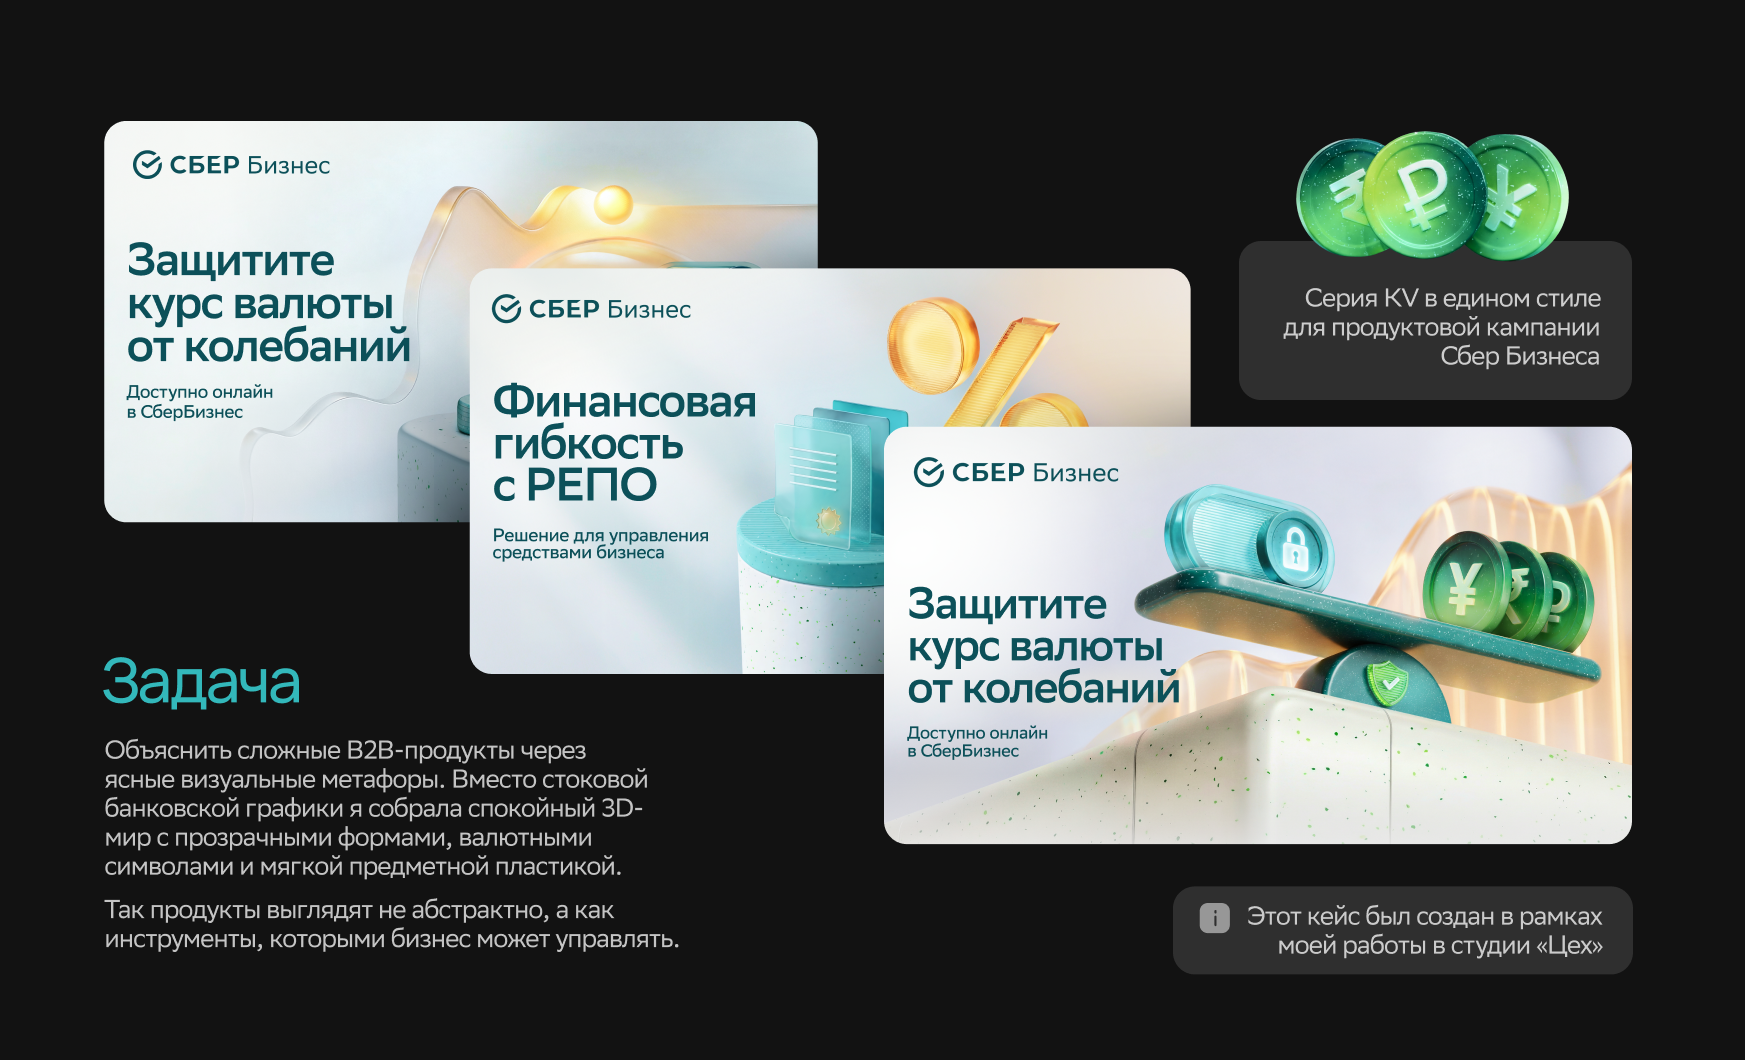
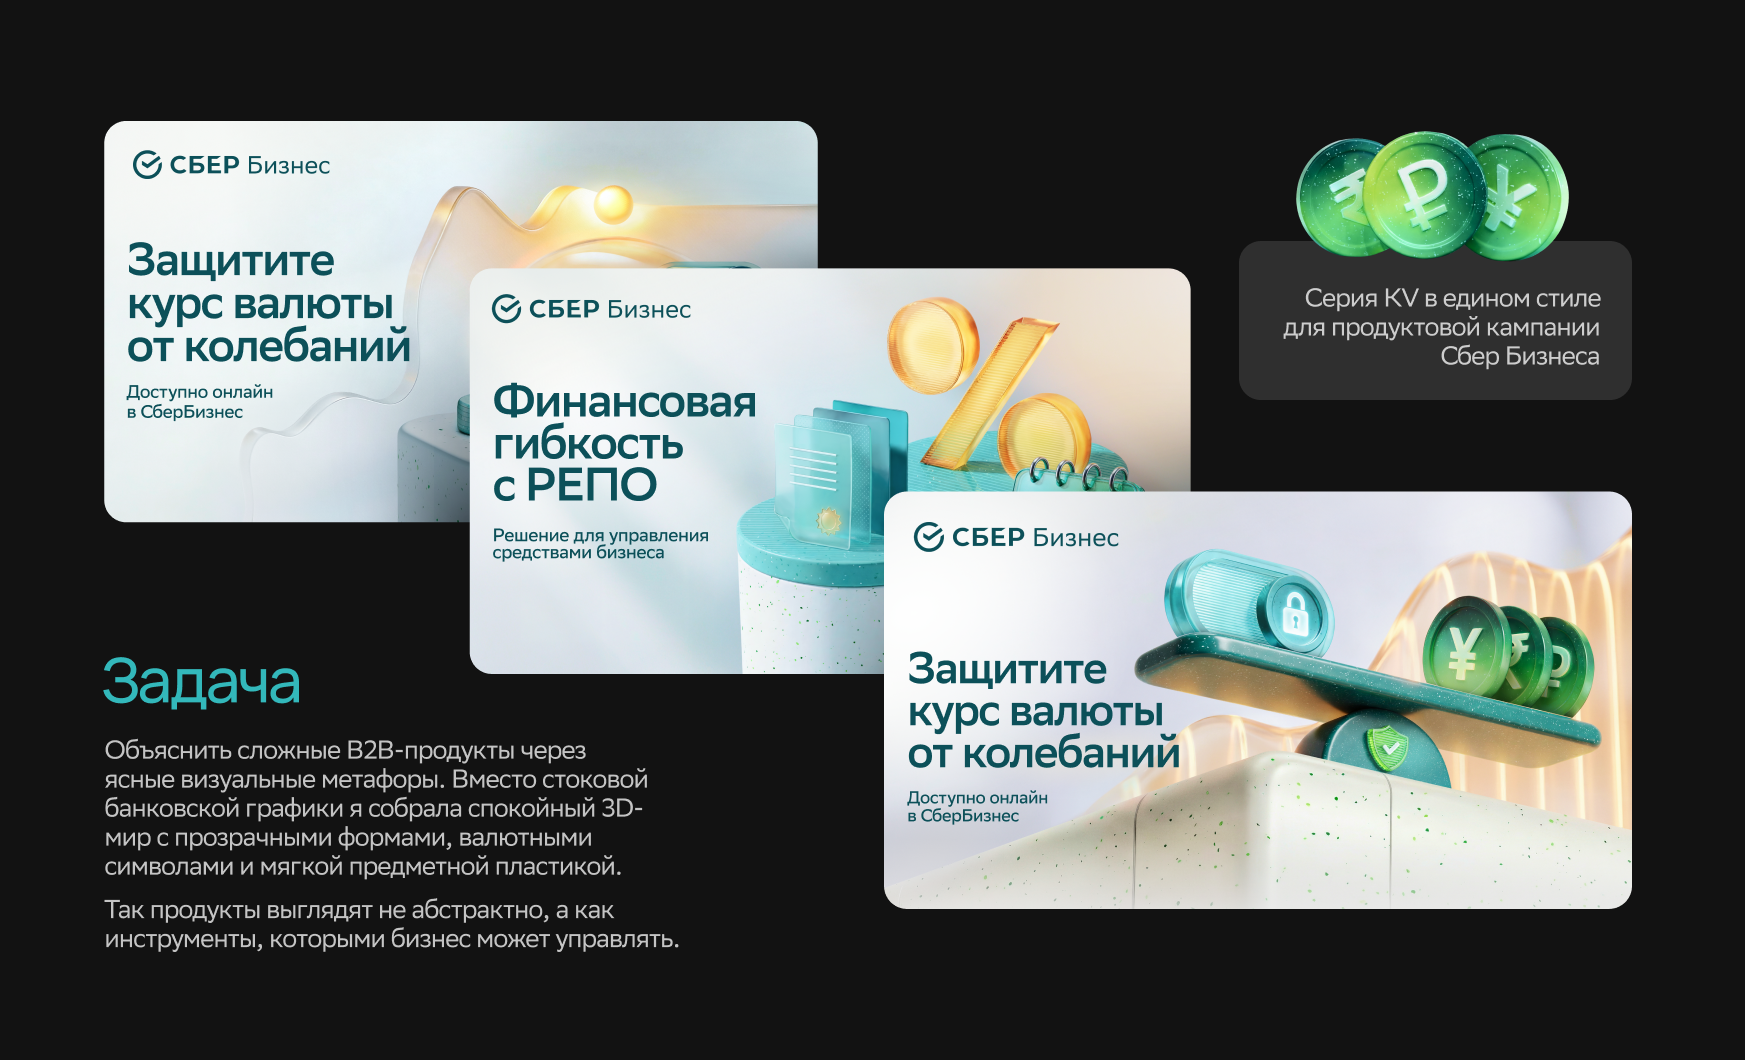
Update Sber case blocks

Changed region(s): [[0.4642, 0.3736, 0.9593, 0.934]]

diff --git a/app/work/[slug]/page.tsx b/app/work/[slug]/page.tsx
@@ -64,7 +64,7 @@ export default function ProjectPage({ params }: ProjectPageProps) {
         .map((file) => {
           const imagePath = `/sber/${encodeURIComponent(file)}`;
 
-          if (/^4-block/i.test(file) || /^12\s*block/i.test(file) || /\.(mp4|webm|mov)$/i.test(file)) {
+          if (/^[24]-block/i.test(file) || /^12\s*block/i.test(file) || /\.(mp4|webm|mov)$/i.test(file)) {
             const version = fs.statSync(path.join(sberDir, file)).mtimeMs;
             return `${imagePath}?v=${Math.round(version)}`;
           }
